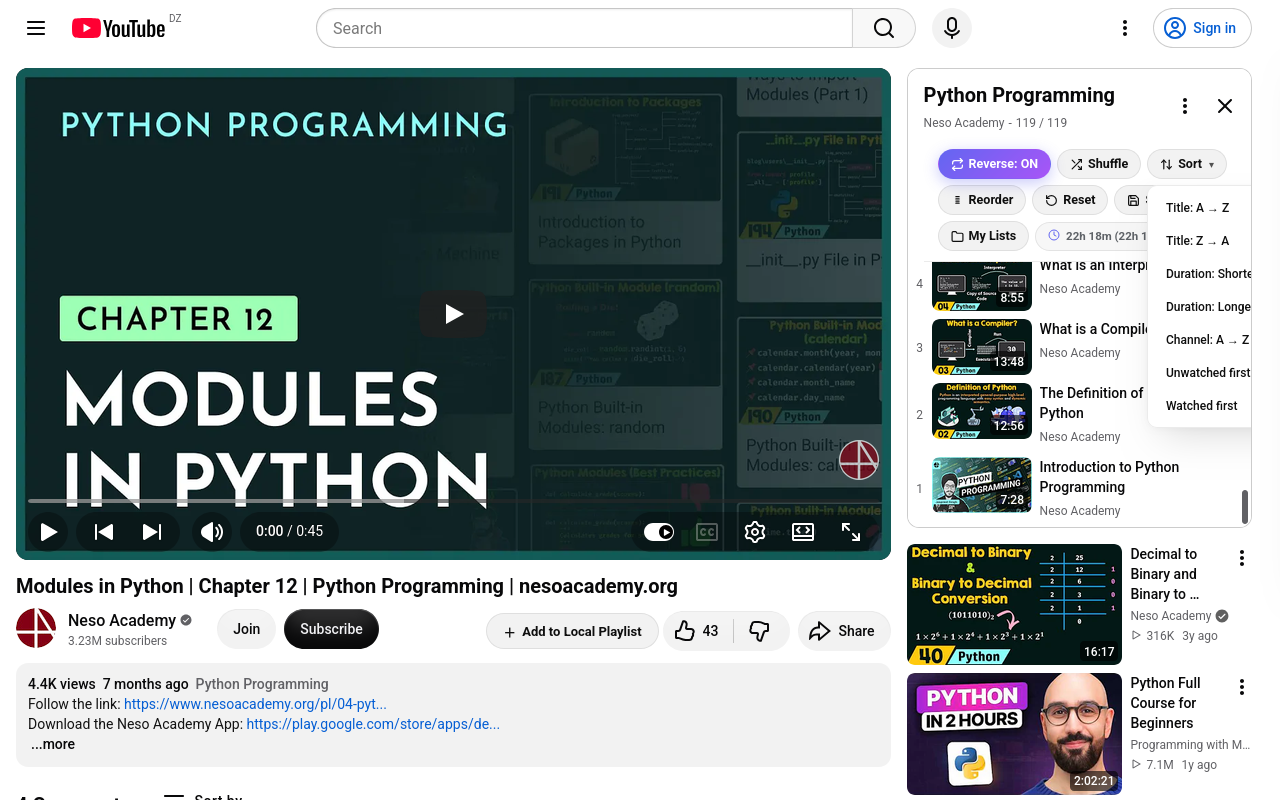
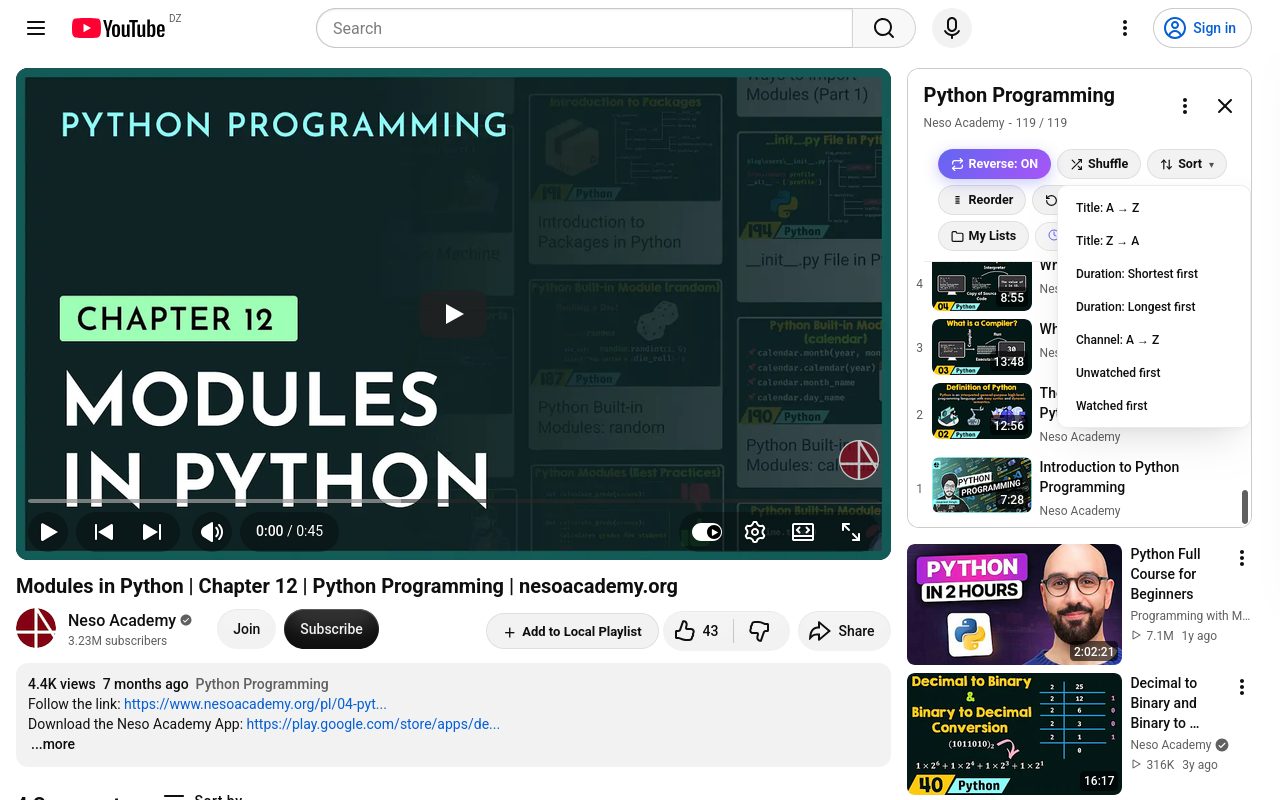
fix: the sort menu ran off the edge of the screen
The dropdown is left-aligned to the Sort button, which lands anywhere along
a toolbar that wraps to the sidebar's width. In a 1280px window the menu
opened past the right edge and three of the seven presets were unreadable —
visible in a store screenshot before it was visible anywhere else. It now
nudges back inside the toolbar's bounds on open, in whichever direction is
needed.

Also gives the virtual playlist row's meta column min-width: 0, so a flex
item can shrink far enough for the title's ellipsis to apply.

Changed region(s): [[0.6875, 0.6562, 0.9688, 1.0], [0.8125, 0.25, 0.9688, 0.5312], [0.5, 0.6562, 0.5625, 0.6875]]

diff --git a/src/toolbar.js b/src/toolbar.js
@@ -345,6 +345,23 @@
     if (!menu) return;
     const open = forceState !== undefined ? forceState : !menu.classList.contains("ryp-menu-show");
     menu.classList.toggle("ryp-menu-show", open);
+    if (open) keepDropdownOnScreen(menu);
+  }
+
+  // The menu hangs off the Sort button, which lands anywhere along a toolbar
+  // that wraps to the sidebar's width. Left-aligned it runs off the right
+  // edge; right-aligned it would run off the left. Nudge it back instead.
+  function keepDropdownOnScreen(menu) {
+    menu.style.left = "0px";
+    const bar = menu.closest("#ryp-toolbar, #ryp-overview-toolbar");
+    const limit = bar ? bar.getBoundingClientRect() : null;
+    const left = limit ? Math.max(limit.left, 0) : 0;
+    const right = Math.min(limit ? limit.right : window.innerWidth, window.innerWidth);
+    const box = menu.getBoundingClientRect();
+    let shift = 0;
+    if (box.right > right - 4) shift = right - 4 - box.right;
+    if (box.left + shift < left + 4) shift = left + 4 - box.left;
+    if (shift) menu.style.left = `${Math.round(shift)}px`;
   }
 
   function closeSortDropdown() {

diff --git a/src/sidebar.js b/src/sidebar.js
@@ -96,6 +96,9 @@
     metaDiv.className = "style-scope ytd-playlist-panel-video-renderer";
     metaDiv.style.flex = "1";
     metaDiv.style.overflow = "hidden";
+    // Without this a flex item refuses to shrink past its content, and the
+    // title's text-overflow: ellipsis never gets a narrower box to act on.
+    metaDiv.style.minWidth = "0";
     metaDiv.style.paddingLeft = "8px";
 
     const titleH4 = document.createElement("h4");
